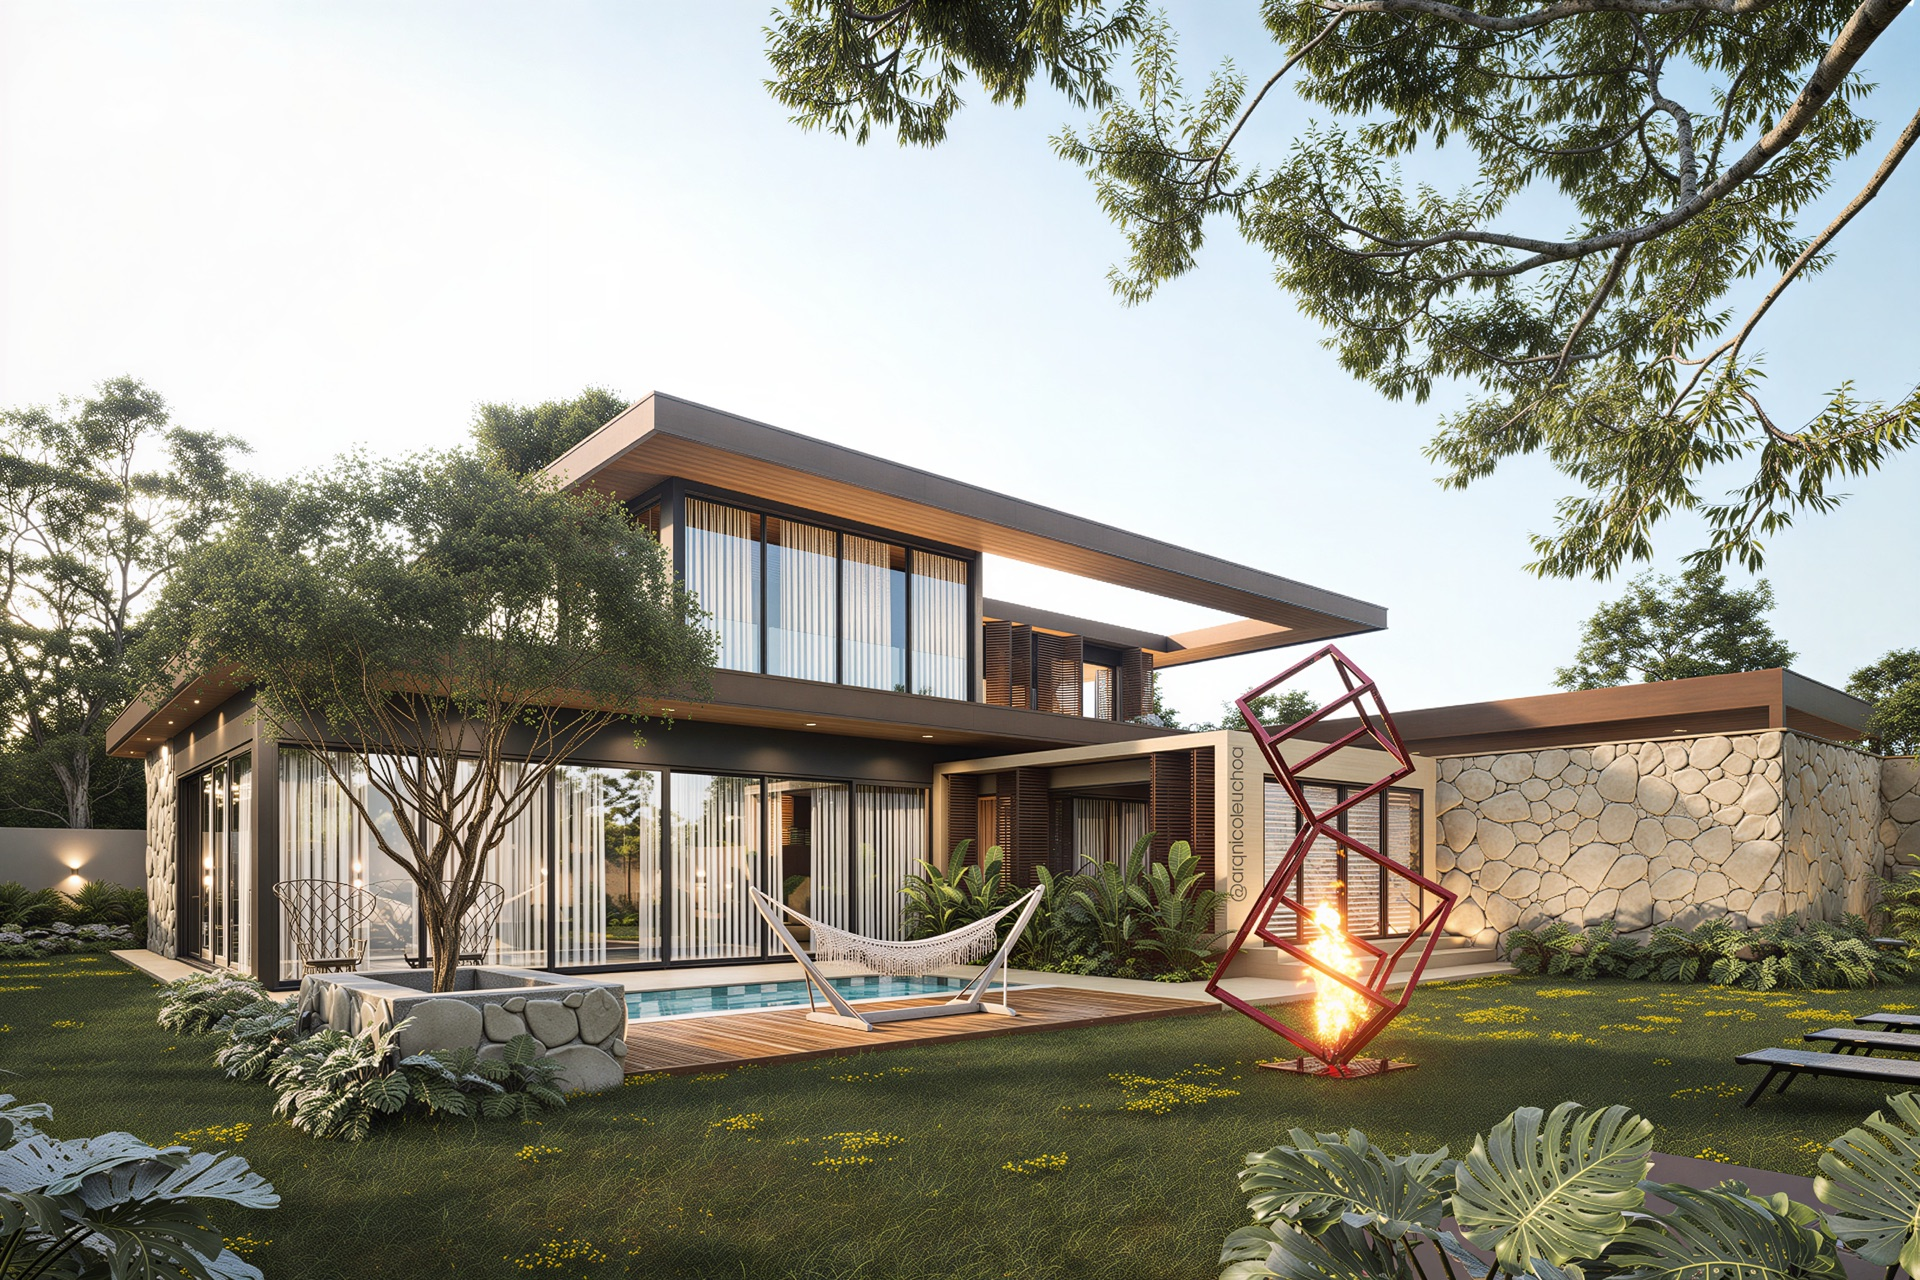
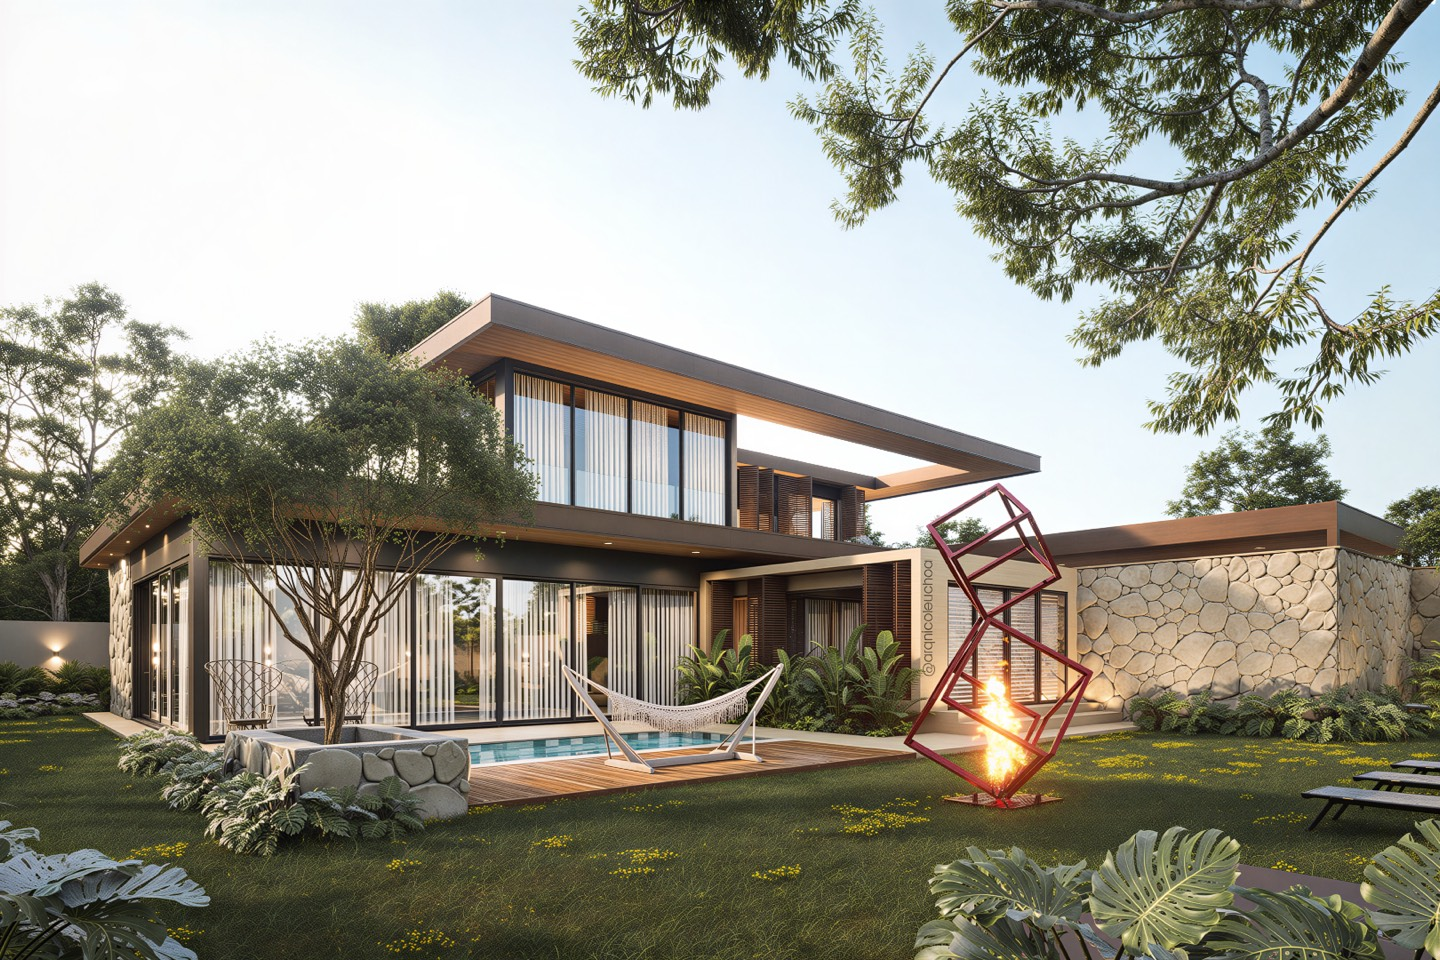
new optmization changes
optmizing image and page speed

diff --git a/index.html b/index.html
@@ -8,9 +8,13 @@
 <meta name="robots" content="noindex, nofollow" />
 <link rel="preconnect" href="https://fonts.googleapis.com" />
 <link rel="preconnect" href="https://fonts.gstatic.com" crossorigin />
-<link href="https://fonts.googleapis.com/css2?family=Cormorant+Garamond:wght@300;400;500;600&family=Inter:wght@300;400;500;600&display=swap" rel="stylesheet" />
+<!-- Google Fonts: async load to avoid render blocking -->
+<link rel="preload" href="https://fonts.googleapis.com/css2?family=Cormorant+Garamond:wght@300;400;500;600&family=Inter:wght@300;400;500;600&display=swap" as="style" onload="this.onload=null;this.rel='stylesheet'" />
+<noscript><link rel="stylesheet" href="https://fonts.googleapis.com/css2?family=Cormorant+Garamond:wght@300;400;500;600&family=Inter:wght@300;400;500;600&display=swap" /></noscript>
+<!-- Preload hero background image -->
 <link rel="preload" as="image" href="fachada-frontal.jpg" />
-<script src="https://cdn.tailwindcss.com"></script>
+<!-- Tailwind: defer to avoid render blocking -->
+<script defer src="https://cdn.tailwindcss.com"></script>
 <script>
   tailwind.config = {
     theme: {
@@ -61,7 +65,7 @@
 </style>
 </head>
 <body class="antialiased">
-
+<main>
 <!-- WhatsApp Floating Button -->
 <a href="https://wa.me/5592999810505?text=Ol%C3%A1%2C%20vi%20a%20apresenta%C3%A7%C3%A3o%20Reserva%20APP%20e%20gostaria%20de%20receber%20o%20dossi%C3%AA%20executivo."
    target="_blank" rel="noopener"
@@ -344,6 +348,7 @@
   </div>
 </section>
 
+</main>
 <footer class="bg-forestDeep text-ivory/40 py-12 px-6 lg:px-12 text-sm">
   <div class="max-w-7xl mx-auto flex flex-col md:flex-row justify-between gap-6">
     <div class="flex items-center gap-3">